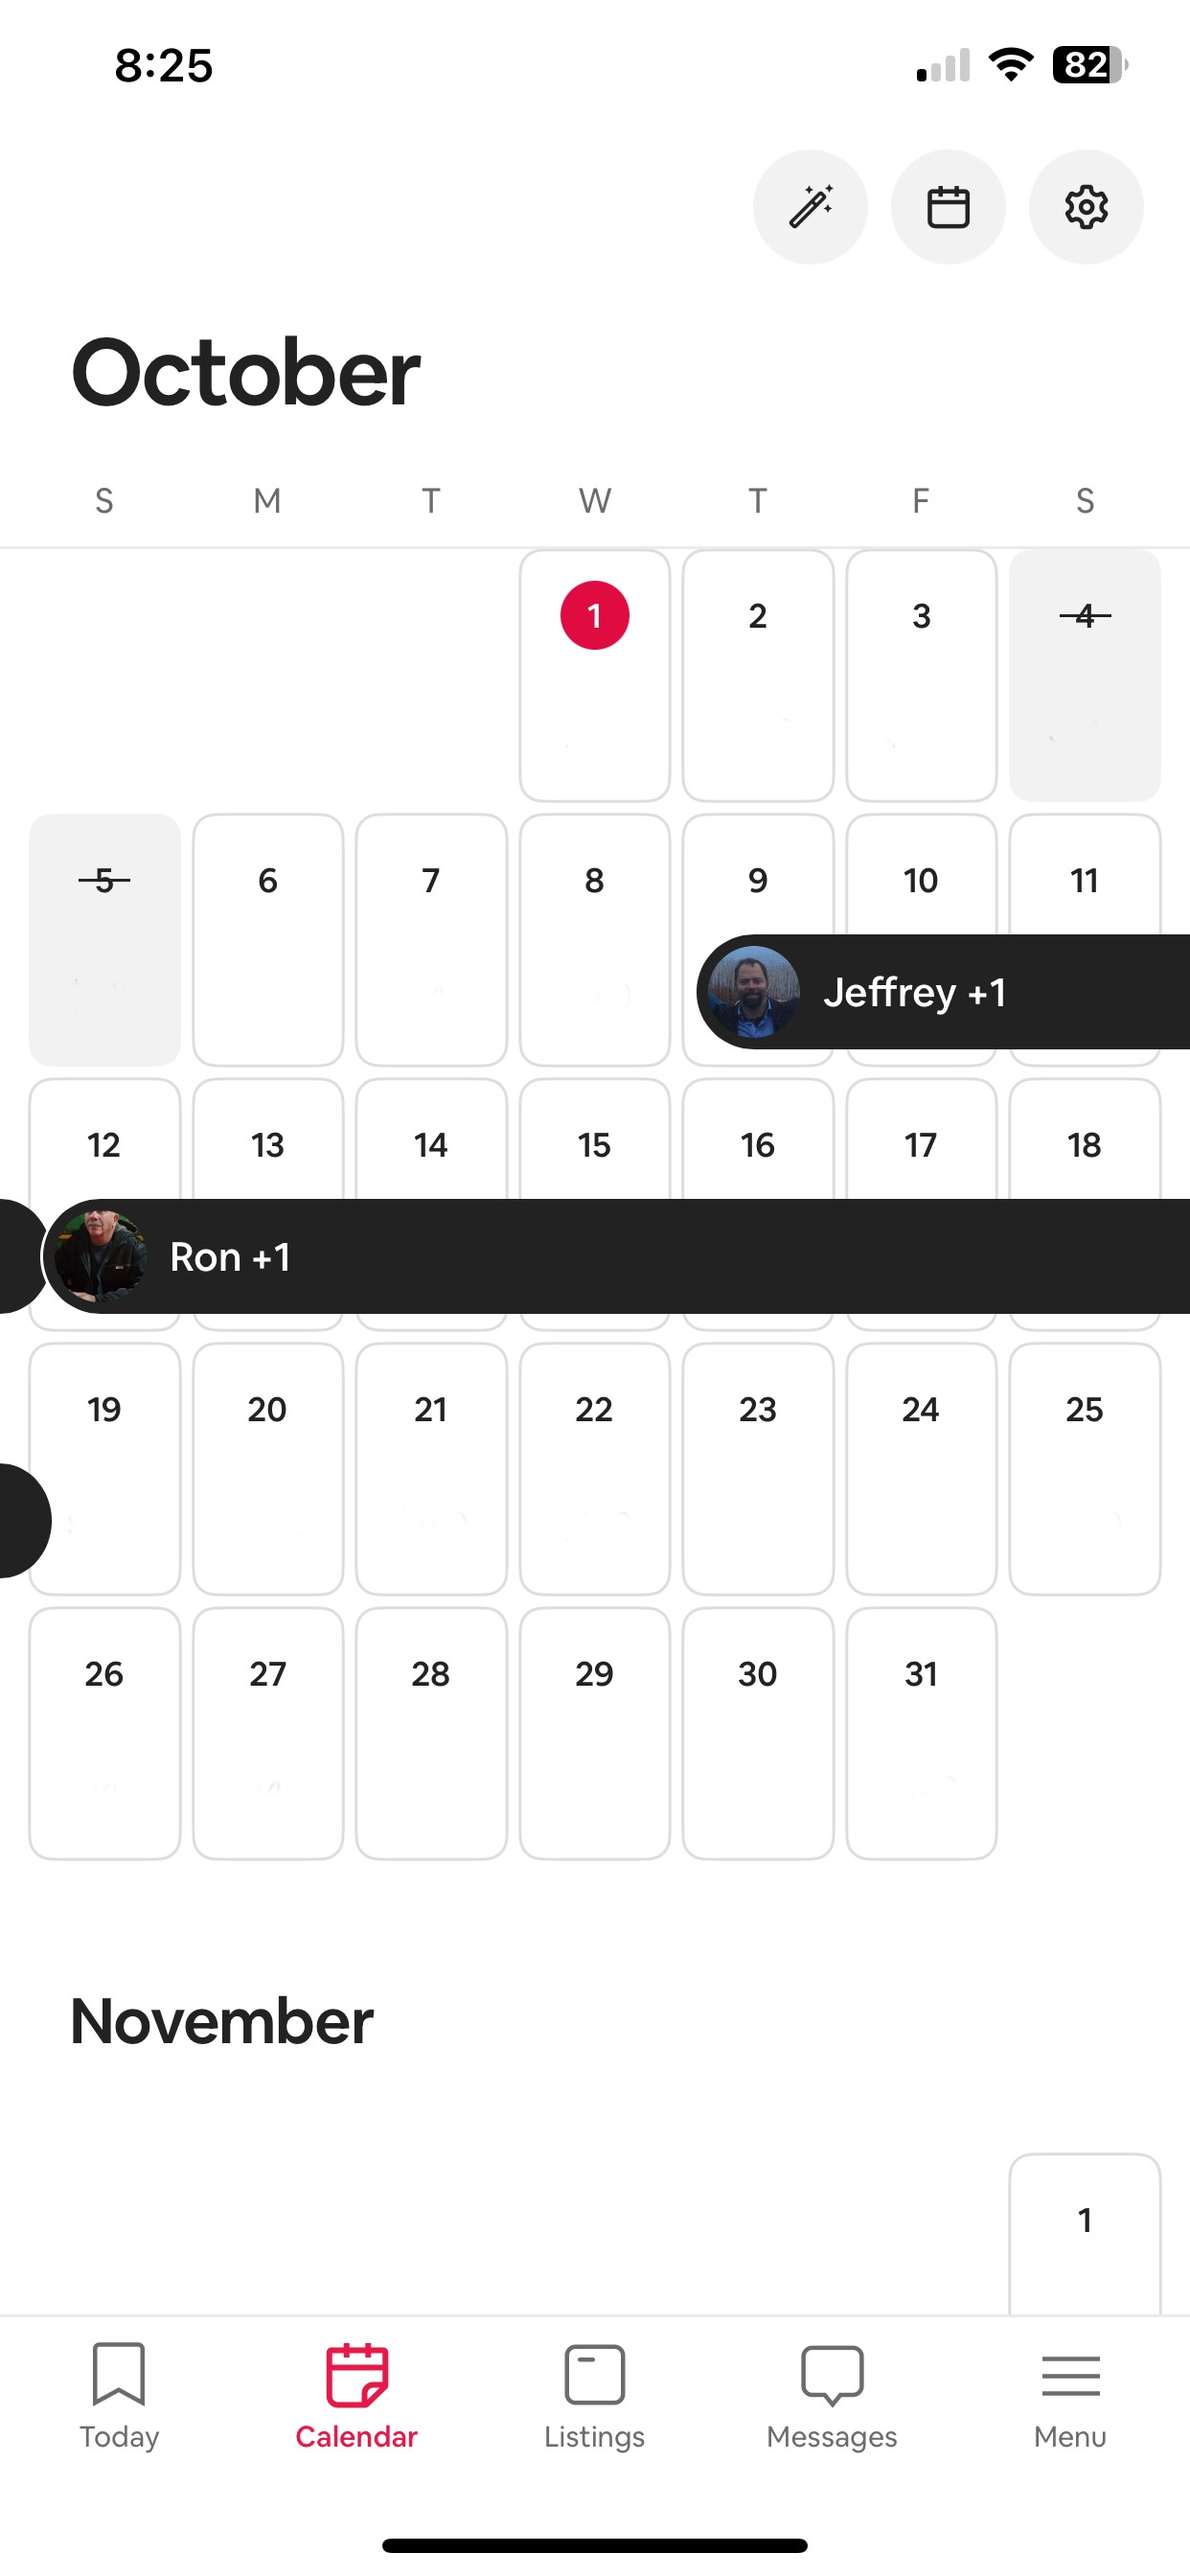
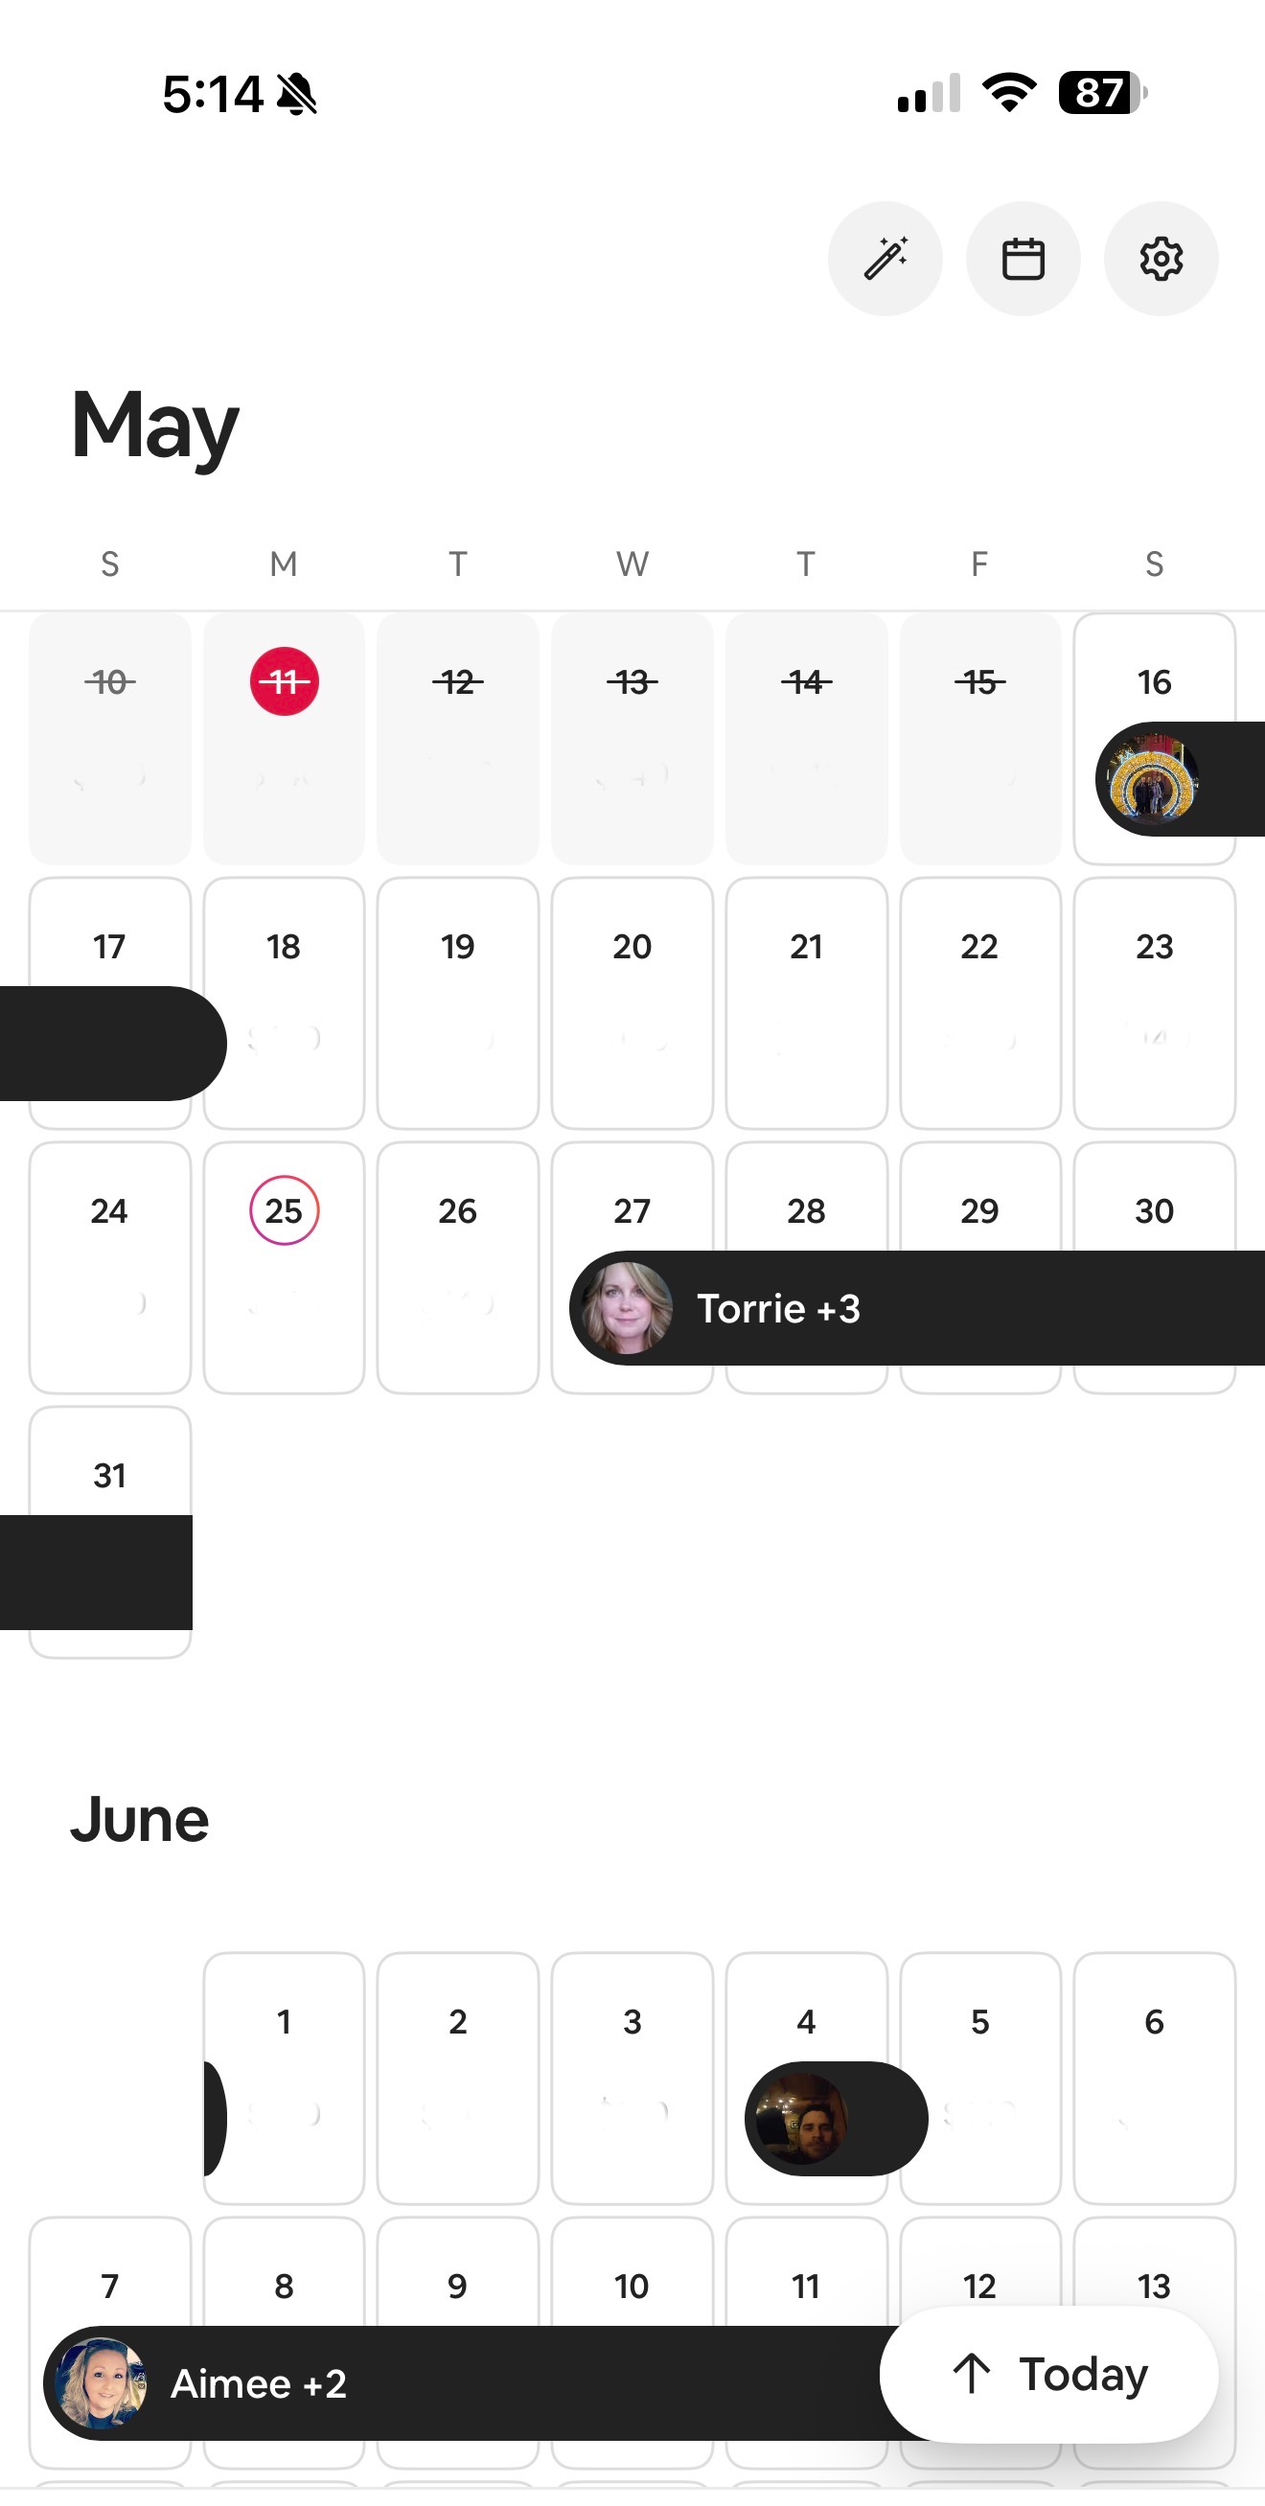
update website-remove pw

diff --git a/clean/index.html b/clean/index.html
@@ -5,8 +5,7 @@
   <title>Cleaner Dashboard</title>
   <style>
     body { font-family: sans-serif; background: #f2f2f2; padding: 2rem; }
-    .hidden { display: none; }
-    .login-box, .dashboard {
+    .dashboard {
       background: white; padding: 2rem; border-radius: 8px;
       max-width: 500px; margin: 2rem auto; box-shadow: 0 0 10px rgba(0,0,0,0.1);
       text-align: center;
@@ -25,39 +24,10 @@
   </style>
 </head>
 <body>
-  <div class="login-box" id="loginBox">
-    <h2>Cleaner Login</h2>
-    <label>Username: <input type="text" id="username"></label><br><br>
-    <label>Password: <input type="password" id="password"></label><br><br>
-    <button onclick="login()">Login</button>
-    <p id="error" style="color:red;"></p>
-  </div>
-
-  <div class="dashboard hidden" id="dashboard">
+  <div class="dashboard">
     <h1>Cleaner Dashboard</h1>
     <a class="button" href="raylake.html">Ray Lake Dashboard</a>
     <a class="button" href="santafe.html">Santa Fe Dashboard</a>
   </div>
-
-  <script src="https://cdnjs.cloudflare.com/ajax/libs/blueimp-md5/2.19.0/js/md5.min.js"></script>
-  <script>
-    const USERS = {
-      "raylake": "482c811da5d5b4bc6d497ffa98491e38", // password
-      "santafe": "482c811da5d5b4bc6d497ffa98491e38"  // test
-    };
-
-    function login() {
-      const user = document.getElementById('username').value.trim().toLowerCase();
-      const pass = document.getElementById('password').value;
-      const hashed = md5(pass);
-
-      if (USERS[user] === hashed) {
-        document.getElementById('loginBox').classList.add('hidden');
-        document.getElementById('dashboard').classList.remove('hidden');
-      } else {
-        document.getElementById('error').innerText = "Access denied";
-      }
-    }
-  </script>
 </body>
 </html>
